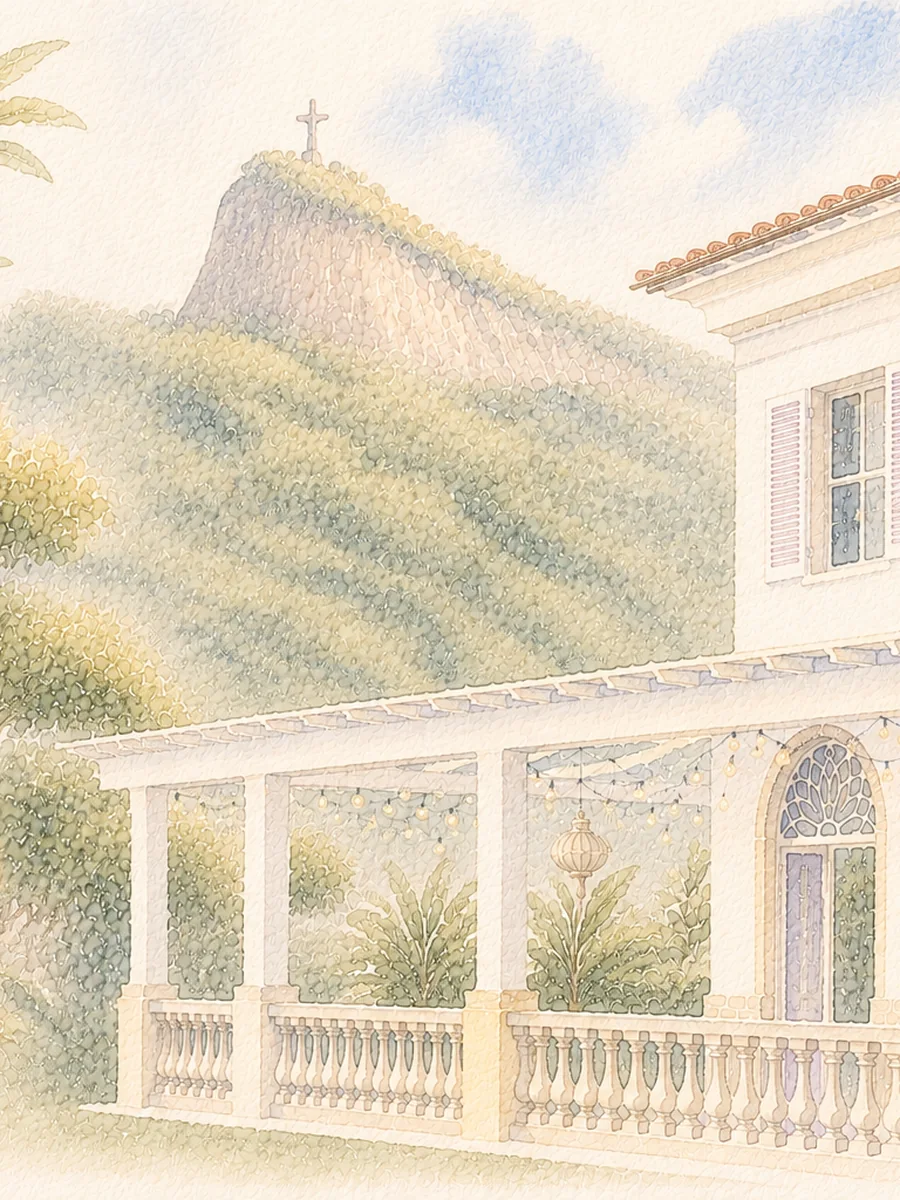
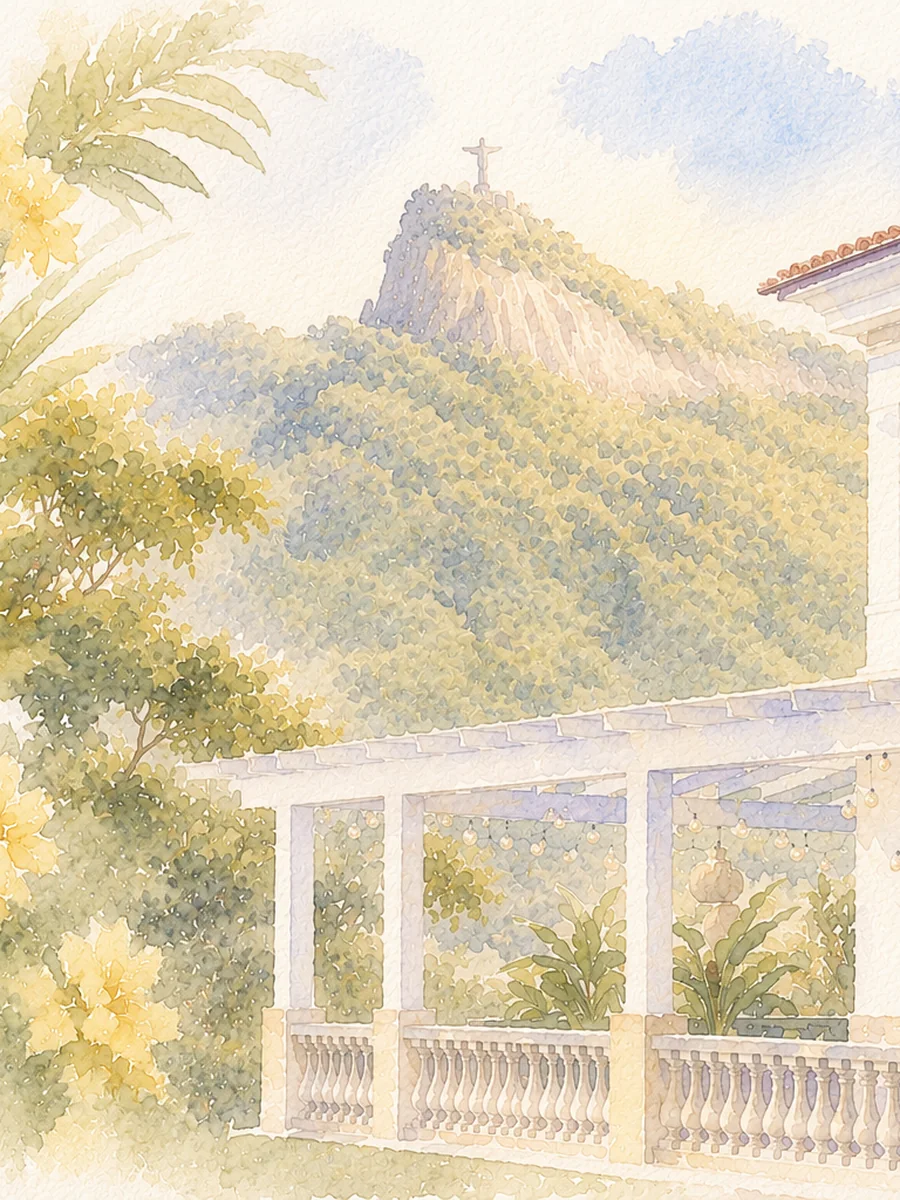
outra aquarela na primeira dobra
O hero passa a sair de "18 de jun. de 2026, 20_41_18.png": a mesma varanda,
com o Corcovado mais alto e a casa inteira a direita.

Duas coisas de tabela:

- a fonte antiga do hero, "18 de ago. de 2026, 12_32_44.png", nao existe mais
  na pasta das aquarelas. O script quebrava ao ser rodado.
- a ancora do recorte retrato foi de 0.46 para 0.38. Ela tinha sido calibrada
  para a arte antiga; nesta, 0.46 deixava os ipes de fora. Vale lembrar que a
  tela do celular e mais estreita que 3:4, entao o `object-fit: cover` come
  as laterais deste recorte antes de chegar ao olho.

As outras cinco imagens saem de aquarelas que nao mudaram e foram regeradas
identicas, byte a byte.

Claude-Session: https://claude.ai/code/session_01VRk9hmEKKB6wX4wvv824Uu

diff --git a/scripts/gerar-imagens.py b/scripts/gerar-imagens.py
@@ -25,7 +25,7 @@ DESTINO = os.path.join(RAIZ, "assets", "img")
 AQUARELAS = os.path.join(FONTE, "Aquarelas", "Aquarela paleta (atual)")
 
 # As escolhas de cada arte, e o porque de cada uma.
-VARANDA_CORCOVADO = os.path.join(AQUARELAS, "ChatGPT Image 18 de ago. de 2026, 12_32_44.png")  # hero: a varanda do casarao com o Corcovado ao fundo
+VARANDA_CORCOVADO = os.path.join(AQUARELAS, "ChatGPT Image 18 de jun. de 2026, 20_41_18.png")  # hero: a varanda do casarao com o Corcovado ao fundo
 CASAL_MANSAO = os.path.join(AQUARELAS, "ChatGPT Image 18 de ago. de 2026, 12_57_29.png")   # compartilhamento: o casal, o casarao e o Cristo
 VISTA_RIO = os.path.join(AQUARELAS, "ChatGPT Image 18 de ago. de 2026, 12_24_25.png")      # local: o Pao de Acucar visto do mirante
 CASAL_VARANDA = os.path.join(AQUARELAS, "ChatGPT Image 18 de jun. de 2026, 20_33_40.png")  # faixa: o casal na varanda
@@ -76,10 +76,12 @@ def main():
 
     # 1b. Hero em retrato -- no celular o corte 3:2 ampliaria um pedaco liso da
     #     parede e a aquarela viraria um degrade. Este recorte vertical mantem o
-    #     Corcovado, as flores e o inicio da varanda dentro da tela.
+    #     Corcovado, as flores e o inicio da varanda dentro da tela. A ancora
+    #     esta a esquerda do centro porque a tela do celular e mais estreita que
+    #     3:4: o `object-fit: cover` ainda come as laterais deste recorte.
     retrato = abrir(VARANDA_CORCOVADO).convert("RGB")
     alvo_l = round(retrato.height * 3 / 4)
-    esq = min(max(round(retrato.width * 0.46 - alvo_l / 2), 0), retrato.width - alvo_l)
+    esq = min(max(round(retrato.width * 0.38 - alvo_l / 2), 0), retrato.width - alvo_l)
     retrato = retrato.crop((esq, 0, esq + alvo_l, retrato.height))
     salvar_par(retrato, "hero-varanda-retrato", 900, qualidade=84)
 
